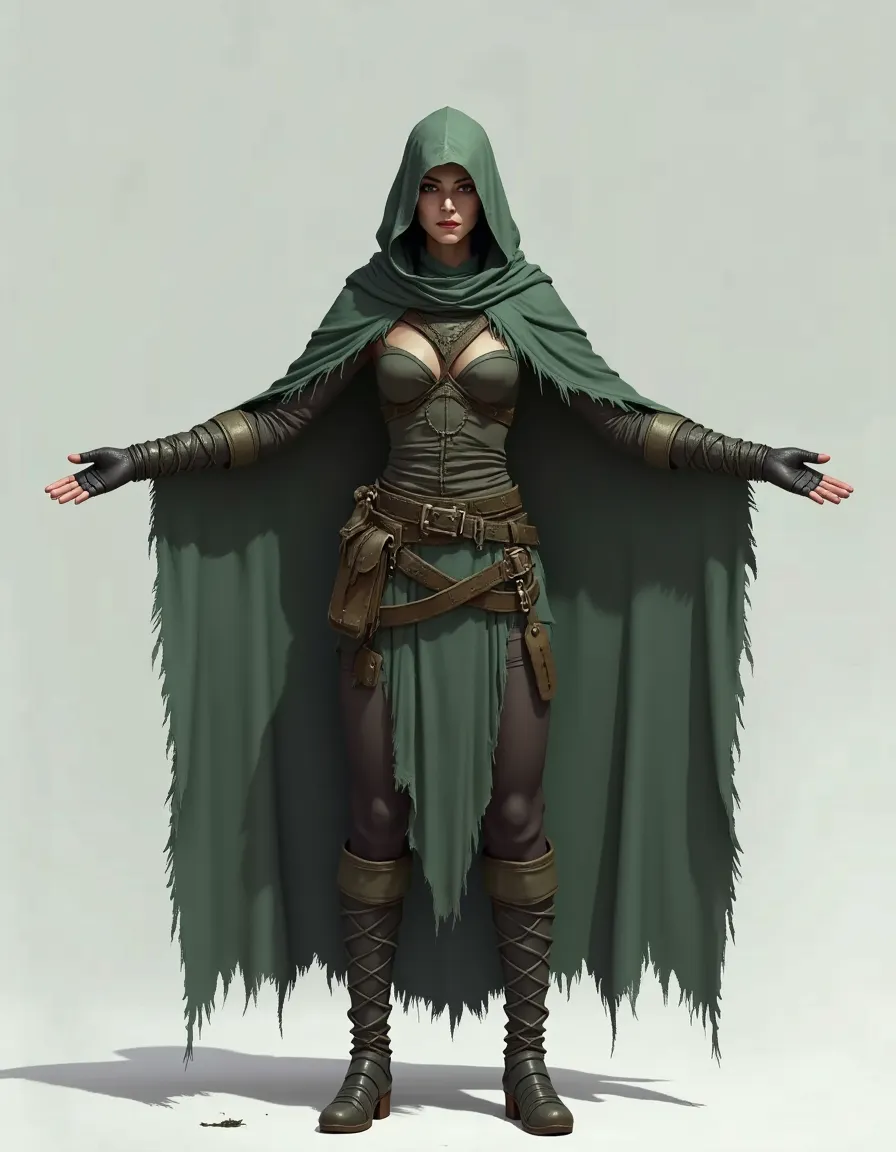
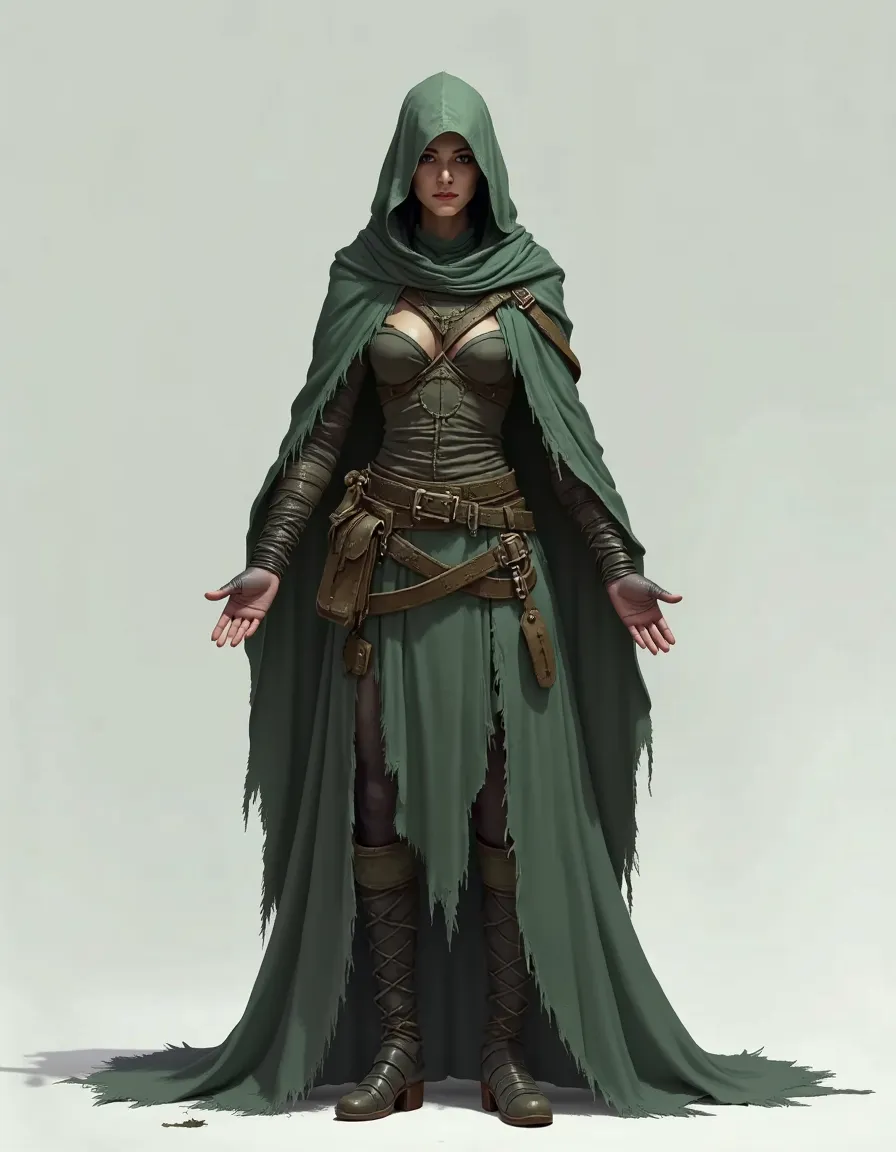
Witch: creatures.py recipe on the Veteran v1 donor, ROSTER row and placeholder archetype
Kontext source v2 (arms clear of a cloak hanging behind; v1 webbed the cloak wrist to ankle).
ARCHETYPES.witch is a verbatim copy of the Veteran's, scale 1 (her scan is fitted to the 1.80 m rig),
a placeholder for Combat's retune. finishers: [] until each is measured on her.

diff --git a/tests/ladder.test.ts b/tests/ladder.test.ts
@@ -6,14 +6,15 @@ import { OPPONENTS } from '../src/moves.ts';
 import { ENCOUNTERS, ROSTER } from '../src/roster.ts';
 
 test('the ladder is the encounter order minus the held recipes: the four creatures wait for after beta, the five men keep their order', () => {
-  assert.deepEqual(LADDER.map(o => o.id), ['veteran', 'pitborn', 'goblin', 'nightborn', 'executioner', 'dwarf']);
+  assert.deepEqual(LADDER.map(o => o.id), ['veteran', 'pitborn', 'goblin', 'nightborn', 'executioner', 'dwarf', 'witch']);
   assert.deepEqual(ENCOUNTERS.filter(o => o.hold).map(o => o.id), ['minotaur', 'wraith', 'werewolf', 'skeleton'], 'held recipes stay listed for the journal, greyed');
   assert.equal(nextAfter('veteran')?.id, 'pitborn'); assert.equal(nextAfter('veteran')?.name, 'the Pitborn');
   assert.equal(nextAfter('pitborn')?.id, 'goblin'); assert.equal(nextAfter('pitborn')?.name, 'the Goblin');
   assert.equal(nextAfter('goblin')?.id, 'nightborn'); assert.equal(nextAfter('goblin')?.name, 'the Nightborn');
   assert.equal(nextAfter('nightborn')?.id, 'executioner'); assert.equal(nextAfter('nightborn')?.name, 'the Executioner');
   assert.equal(nextAfter('executioner')?.id, 'dwarf'); assert.equal(nextAfter('executioner')?.name, 'the Dwarf');
-  assert.equal(nextAfter('dwarf'), undefined, 'the last live rung offers no next opponent: the creatures are held');
+  assert.equal(nextAfter('dwarf')?.id, 'witch'); assert.equal(nextAfter('dwarf')?.name, 'the Witch');
+  assert.equal(nextAfter('witch'), undefined, 'the last live rung offers no next opponent: the creatures are held');
   for (const held of ['minotaur', 'wraith', 'werewolf', 'skeleton'] as const) assert.equal(nextAfter(held), undefined, `${held} is held: not a rung`);
   for (const rung of LADDER) assert.ok(OPPONENTS[rung.id], `${rung.id} exists in the roster`);
   // A saved encounter that was put on hold after it was saved resolves to the first rung, never to the held man.

diff --git a/src/moves.ts b/src/moves.ts
@@ -481,6 +481,9 @@ const ARCHETYPES: Record<(typeof ROSTER)[OpponentId]['archetype'], Omit<Opponent
   // Hard: pressure .7 and a discipline floor of 30 keep him cutting instead of resting (the shared hard was two wins tighter than normal;
   // docs/state/combat.md). His own table so the Executioner (shared PROFILES) is untouched.
   veteran: { scale: 1, health: RULES.health, poise: 0, profiles: { ...PROFILES, hard: { ...PROFILES.hard, pressure: .7, discipline: 30 } } },   // the trident since slice V (2026-09-16)
+  // PLACEHOLDER for Combat's retune (Lead, 2026-09-23): a verbatim copy of the Veteran's profile; only `scale` is hers, measured off
+  // witch.glb (the reconstruction is fitted to the Veteran's 1.80 m rig, so her standing ratio is 1).
+  witch: { scale: 1, health: RULES.health, poise: 0, profiles: { ...PROFILES, hard: { ...PROFILES.hard, pressure: .7, discipline: 30 } } },
   // The dwarf (character lane, 2026-09-20): the Veteran's trident game on a short, wide, re-proportioned rig (build-warrior.mjs BUILD.dwarf).
   // Measured in the shared Idle he stands 1.361 m to the hero's 1.745 (×0.780; tests/characters.test.ts pins it) — the goblin's height with
   // a barrel body; the hit capsule follows the measured height like the goblin's. Sturdier than a man: 170 health and poise 12 — a stab (11)

diff --git a/src/roster.ts b/src/roster.ts
@@ -25,6 +25,9 @@ export const ROSTER = {
   // Owner 2026-09-20: Dwarf kills were landing plain. Reconstructed bodies list only finishers validated on that body; the
   // Dwarf rig carries every finisher clip and each rotation outcome below was captured on him by the finisher harness.
   dwarf: { name: 'the Dwarf', body: 'dwarf', rig: 'hero', archetype: 'dwarf', weapon: 'warhammer', finishers: ['splitCrown', 'decapitation', 'runThrough', 'opened', 'plainDeath'] },   // quietOne (picker-only) failed its spray check on him — not listed
+  // The Witch (Brief 16, beta on Dom's word 2026-09-23): a TRELLIS.2 reconstruction fitted to the Veteran's v1 rig (creatures.py
+  // `witch`), on the trident's polearm family until the Weapons lane's bladed staff lands. finishers: [] until each is measured on her.
+  witch: { name: 'the Witch', body: 'witch', rig: 'hero', archetype: 'witch', weapon: 'trident', finishers: [] },
 } as const satisfies Record<string, { name: string; body: string; rig: RigId; archetype: string; weapon: WeaponId; finishers?: readonly FinisherId[]; blood?: false; hold?: true }>;
 export type OpponentId = keyof typeof ROSTER;
 export function supportsFinishers(id: OpponentId, finisher?: FinisherId | null): boolean {

diff --git a/tests/graphics.test.ts b/tests/graphics.test.ts
@@ -505,7 +505,7 @@ test('the ladder: the first rung is the Centurion, and the bars carry his name l
 test('the journal opponent picker lists the ladder, shows the current rung, and a pick saves the rung and reloads without the URL override', () => {
   const app = boot({ id: 'tester-0001', ladder: 'goblin' }); app.tick();
   const select = app.element('opponent-select');
-  assert.deepEqual(select.children.map(o => o.value), ['veteran', 'pitborn', 'goblin', 'nightborn', 'executioner', 'dwarf'], 'live rungs only: held Season 2 creatures are not offered');
+  assert.deepEqual(select.children.map(o => o.value), ['veteran', 'pitborn', 'goblin', 'nightborn', 'executioner', 'dwarf', 'witch'], 'live rungs only: held Season 2 creatures are not offered');
   assert.equal(select.value, 'goblin', 'the picker shows the rung this device is on');
   select.value = 'nightborn'; select.dispatchEvent(new Event('change')); app.tick();
   assert.equal(JSON.parse(app.storage.getItem('frankendom.fighter.v1')!).ladder, 'nightborn', 'the pick is saved as the rung');

diff --git a/scripts/character/creatures.py b/scripts/character/creatures.py
@@ -24,6 +24,9 @@ recipes = {
     # The Veteran is his own donor too: v1 (KeenTools head on the Studio body, backup) carries his rig, trident and
     # clips. The Kontext source stands in a 62° A-pose (docs/character-references/veteran-source-v1.png).
     "veteran": ("source/backups/veteran-v1", 62, 1.0, (0, -0.04, -0.025), 1.82, 16),
+    # The Witch (Brief 16, option (b)): a woman on the Veteran's rig, trident family. The scan carries her body, so no bone
+    # scale; the Kontext source stands with her arms ~35° off her sides (docs/character-references/witch-source-v1.png).
+    "witch": ("source/backups/veteran-v1", 50, 1.0, (0, -0.04, -0.025), 1.80, 16),
 }
 base, arm_angle, arm_stretch, arm_shift, height, smooth_steps = recipes[family]
 # The absolute heights below were tuned on ~1.80 m donors; the short dwarf donor scales them. Every other family keeps k = 1.
@@ -396,7 +399,7 @@ for v in mesh.data.vertices:
     )
     # Disallow nearest-body transfer from attaching claws to the adjacent thigh.
     edge = (0.23 + max(0, 1.30 - z) * 0.23) if family in ("minotaur", "werewolf", "executioner") else 0.27
-    if family in ("skeleton", "veteran"):  # a man on the Veteran's rig: arm starts 18.5 cm off the midline
+    if family in ("skeleton", "veteran", "witch"):  # a man on the Veteran's rig: arm starts 18.5 cm off the midline
         edge = 0.185 + max(0, 1.4 - z) * 0.26
     if family == "dwarf":
         edge = 0.185 * k + max(0, 1.4 * k - z) * 0.26
@@ -405,10 +408,10 @@ for v in mesh.data.vertices:
     ) * max(0, min(1, (1.62 * k - z) / 0.10))
     if rigid == head:
         arm_mix = 0
-    arm_mix *= max(0, min(1, (z - (0.50 * k if family in ("minotaur", "werewolf", "skeleton", "dwarf", "executioner", "veteran") else 0.92)) / 0.10))
+    arm_mix *= max(0, min(1, (z - (0.50 * k if family in ("minotaur", "werewolf", "skeleton", "dwarf", "executioner", "veteran", "witch") else 0.92)) / 0.10))
     # Human hands (the Executioner): keep the donor's transferred finger weights on the arm so the clips curl his
     # fingers round the haft; the segment blend below is for claws and mitts and pins fingers rigid to the hand.
-    keep_fingers = family in ("executioner", "dwarf", "veteran") and arm_mix > 0.5
+    keep_fingers = family in ("executioner", "dwarf", "veteran", "witch") and arm_mix > 0.5
     if not rigid and not keep_fingers:
         arm_names = (
             "upperarm",

diff --git a/scripts/character/creature_pack.py b/scripts/character/creature_pack.py
@@ -98,7 +98,7 @@ def compact(d, b):
 
 root = Path("artifacts/character/creatures")
 family = sys.argv[1]
-base = {"minotaur": "pitborn", "wraith": "nightborn", "werewolf": "pitborn", "skeleton": "source/backups/veteran-v1", "dwarf": "source/creatures/dwarf-donor", "executioner": "source/backups/executioner-v5", "veteran": "source/backups/veteran-v1"}[family]
+base = {"minotaur": "pitborn", "wraith": "nightborn", "werewolf": "pitborn", "skeleton": "source/backups/veteran-v1", "dwarf": "source/creatures/dwarf-donor", "executioner": "source/backups/executioner-v5", "veteran": "source/backups/veteran-v1", "witch": "source/backups/veteran-v1"}[family]
 # Surface material factors per family: the retained maps stay byte-identical; a factor only scales them (glTF spec).
 # The Dwarf's TRELLIS metallic map reads his dented iron as polished steel under the arena lighting; 0.6 keeps the plate iron, not chrome.
 SURFACE_FACTORS = {"dwarf": {"metallicFactor": 0.35}}
